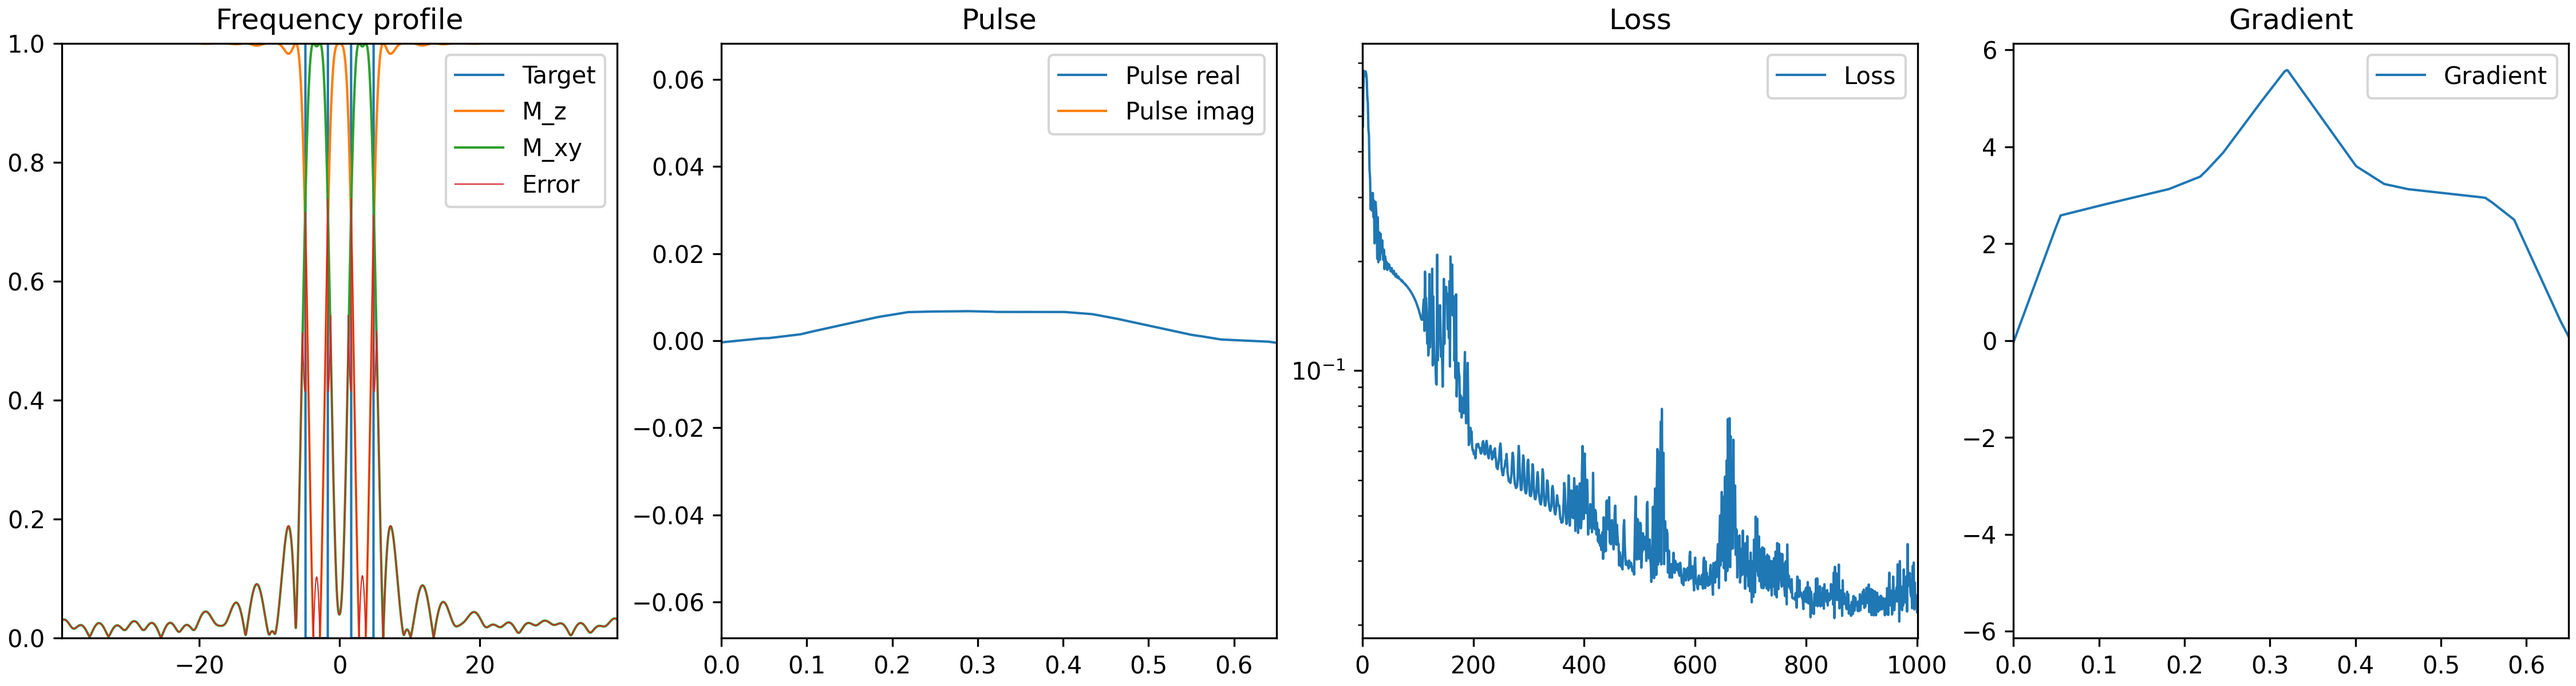
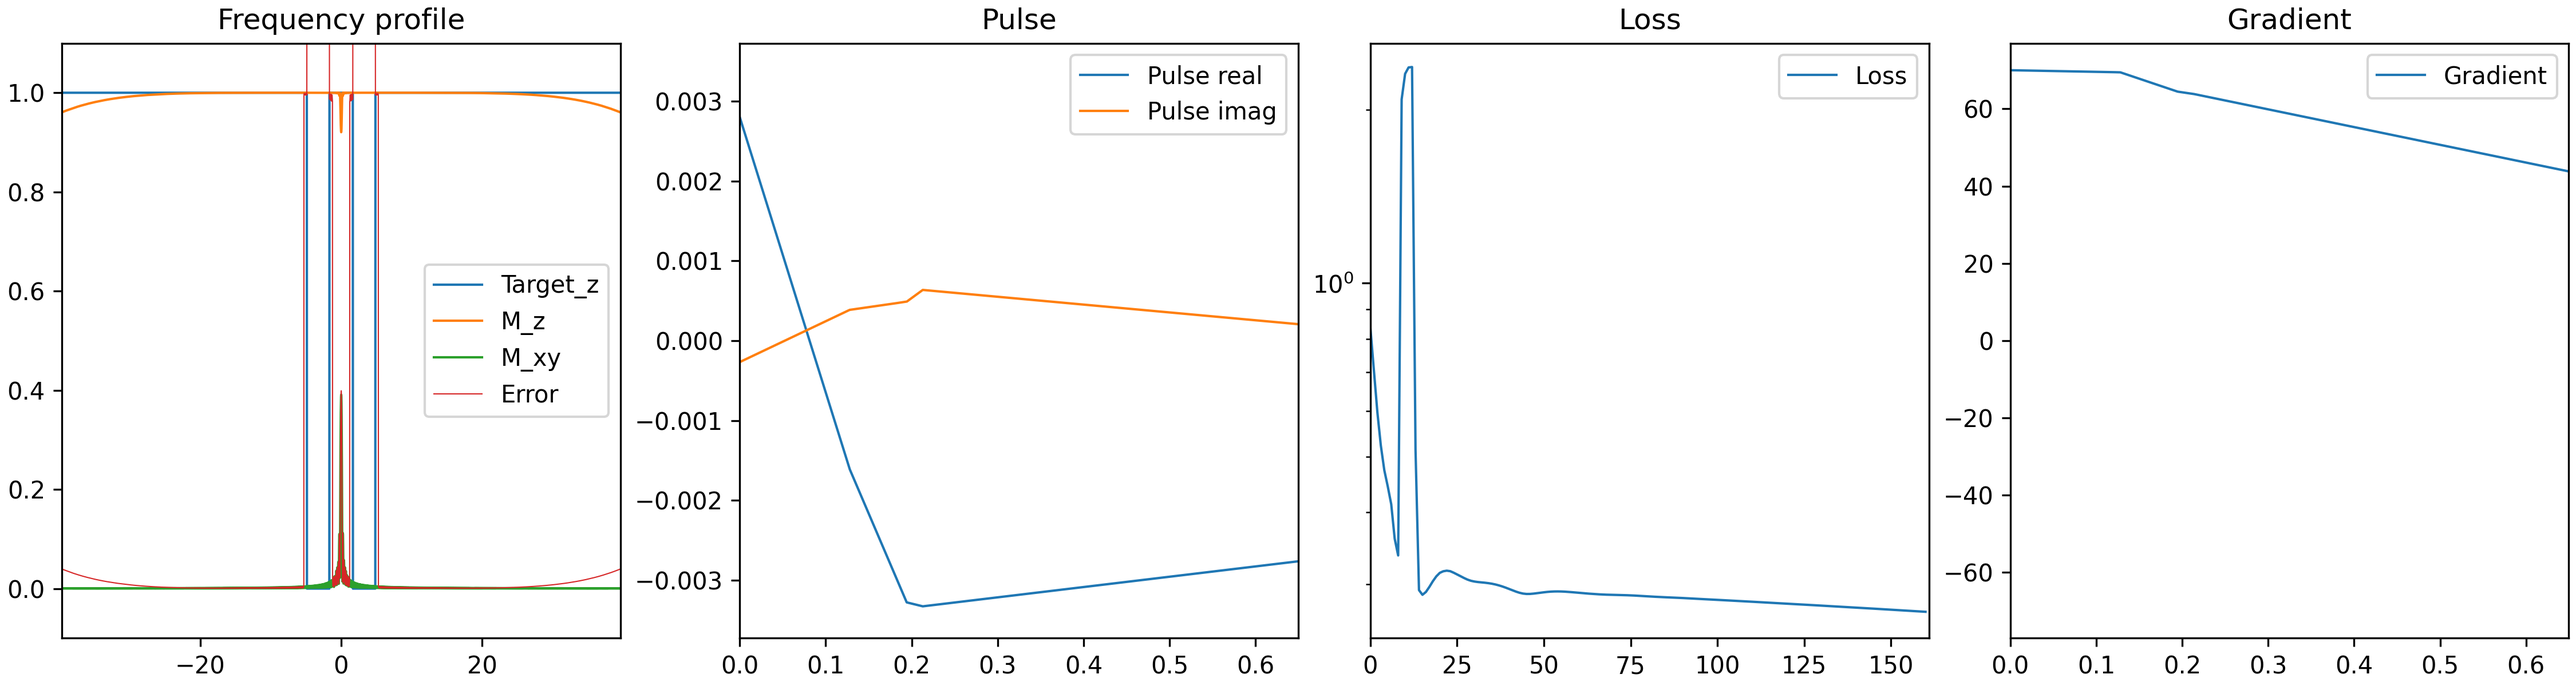
further optimized blochsim_CK

diff --git a/utils_train/utils.py b/utils_train/utils.py
@@ -5,6 +5,35 @@ import numpy as np
 from params import gradient_scale
 
 
+class TrainLogger:
+    def __init__(self, save_every=1):
+        self.log = {}
+        self.save_every = save_every
+        self.best_loss = np.inf
+
+    def log_epoch(
+        self, epoch, L2_loss, D_loss, losses, model, optimizer, pulse, gradient
+    ):
+        self.log["epoch"] = epoch
+        self.log["L2_loss"] = L2_loss.item()
+        self.log["D_loss"] = D_loss.item()
+        self.log["losses"] = losses
+        self.log["model"] = model
+        self.log["optimizer"] = optimizer
+        self.log["pulse"] = pulse
+        self.log["gradient"] = gradient
+        self.save(epoch, losses)
+
+    def save(self, epoch, losses, filename="train_log.pt"):
+        if not epoch % self.save_every == 0:
+            return
+        if not np.mean(losses[-4:]) < self.best_loss:
+            return
+        self.best_loss = np.mean(losses[-4:])
+        torch.save(self.log, filename)
+        print(f"Training log saved to {filename}")
+
+
 class InfoScreen:
     def __init__(self, output_every=1):
         self.t0 = time()
@@ -14,7 +43,7 @@ class InfoScreen:
 
     def init_plots(self):
         self.fig, self.ax = plt.subplots(1, 4, figsize=(15, 4), constrained_layout=True)
-        self.p1 = self.ax[0].plot([0], [1], linewidth=1, label="Target")[0]
+        self.p1 = self.ax[0].plot([0], [1], linewidth=1, label="Target_z")[0]
         self.p2 = self.ax[0].plot([0], [1], linewidth=1, label="M_z")[0]
         self.p3 = self.ax[0].plot([0], [1], linewidth=1, label="M_xy")[0]
         self.p4 = self.ax[0].plot([0], [1], linewidth=0.5, label="Error")[0]
@@ -31,11 +60,12 @@ class InfoScreen:
         self.ax[2].set_title("Loss")
         self.ax[3].set_title("Gradient")
 
-
-    def plot_info(self, epoch, losses, fAx, t_B1, target_z, target_xy, mz, mxy, pulse, gradient):
+    def plot_info(
+        self, epoch, losses, fAx, t_B1, target_z, target_xy, mz, mxy, pulse, gradient
+    ):
         """plots info curves during training"""
-        fmin = torch.min(fAx).item()
-        fmax = torch.max(fAx).item()
+        fmin = -10  # torch.min(fAx).item()
+        fmax = 10  # torch.max(fAx).item()
         if epoch % self.output_every == 0:
             t = t_B1.detach().cpu().numpy()
             mz_plot = mz.detach().cpu().numpy()
@@ -52,15 +82,22 @@ class InfoScreen:
             self.ax[1].set_xlim(t[0], t[-1])
             self.ax[3].set_xlim(t[0], t[-1])
             self.ax[2].set_xlim(0, epoch + 1)
-            self.ax[0].set_ylim(0,1)
+            self.ax[0].set_ylim(-0.1, 1.1)
             self.ax[1].set_ylim(
                 (
-                    -1.1*np.max(np.sqrt(pulse_real**2+pulse_imag**2)),
-                    1.1*np.max(np.sqrt(pulse_real**2+pulse_imag**2))
+                    -1.1 * np.max(np.sqrt(pulse_real**2 + pulse_imag**2)),
+                    1.1 * np.max(np.sqrt(pulse_real**2 + pulse_imag**2)),
                 )
             )
-            self.ax[2].set_ylim((0.9 * np.min(losses).item(), 1.1 * np.max(losses).item()))
-            self.ax[3].set_ylim((-1.1 * np.max(np.abs(gradient_plot)).item(), 1.1 * np.max(np.abs(gradient_plot)).item()))
+            self.ax[2].set_ylim(
+                (0.9 * np.min(losses).item(), 1.1 * np.max(losses).item())
+            )
+            self.ax[3].set_ylim(
+                (
+                    -1.1 * np.max(np.abs(gradient_plot)).item(),
+                    1.1 * np.max(np.abs(gradient_plot)).item(),
+                )
+            )
 
             self.p1.set_xdata(fAx)
             self.p2.set_xdata(fAx)
@@ -74,6 +111,7 @@ class InfoScreen:
             self.p5.set_ydata(gradient_plot)
 
             self.q.set_xdata(t)
+            self.qq.set_xdata(t)
             self.q.set_ydata(pulse_real)
             self.qq.set_ydata(pulse_imag)
 
@@ -85,7 +123,7 @@ class InfoScreen:
             plt.show(block=False)
             plt.pause(0.001)
 
-    def print_info(self, epoch, L2_loss,D_Loss):
+    def print_info(self, epoch, L2_loss, D_Loss):
         self.t1 = time() - self.t0
         self.t0 = time()
         print("Epoch: ", epoch)
@@ -97,17 +135,19 @@ class InfoScreen:
 
 def init_training(model_pulse, lr, device=torch.device("cpu")):
     model_pulse = model_pulse.to(device)
-    optimizer_pulse = torch.optim.Adam(model_pulse.parameters(), lr=lr)
+    optimizer_pulse = torch.optim.AdamW(model_pulse.parameters(), lr=lr)
     losses = []
-    best_loss = np.inf
-    saved = False
-    save_timer = 0
-    return model_pulse, optimizer_pulse, losses, best_loss, saved, save_timer
+    return model_pulse, optimizer_pulse, losses
 
 
 def loss_fn(z_profile, xy_profile, tgt_z, tgt_xy, pulse, gradient):
     xy_profile_abs = torch.abs(xy_profile)
-    L2_loss = torch.mean((z_profile - tgt_z) ** 2) + torch.mean((xy_profile_abs - tgt_xy) ** 2)
-    D_Loss = torch.sqrt(torch.abs(pulse[0])**2 + torch.abs(pulse[-1])**2) + torch.sqrt(gradient[0]**2 + gradient[-1]**2)/gradient_scale
+    L2_loss = torch.mean((z_profile - tgt_z) ** 2) + torch.mean(
+        (xy_profile_abs - tgt_xy) ** 2
+    )
+    D_Loss = (
+        torch.sqrt(torch.abs(pulse[0]) ** 2 + torch.abs(pulse[-1]) ** 2)
+        + torch.sqrt(gradient[0] ** 2 + gradient[-1] ** 2) / gradient_scale
+    )
     # H1_loss = torch.mean(findiff(xy_profile-1+target)**2) + torch.mean(findiff(z_profile-target)**2)
     return L2_loss, D_Loss  # + H1_loss

diff --git a/blochsim_CK.py b/blochsim_CK.py
@@ -374,7 +374,9 @@ def blochsim_CK(B1, G, pos, sens, B0, **kwargs):
     dt = kwargs.get("dt", 6.4e-6)
 
     # Handle M0 initialization
-    M0 = kwargs.get("M0", torch.tensor([0.0, 0.0, 1.0], dtype=torch.float32, requires_grad=False))
+    M0 = kwargs.get(
+        "M0", torch.tensor([0.0, 0.0, 1.0], dtype=torch.float32, requires_grad=False)
+    )
     if M0.ndim == 1:
         M0 = M0.to(B1.device)
 
@@ -383,8 +385,12 @@ def blochsim_CK(B1, G, pos, sens, B0, **kwargs):
     Nt = G.shape[0]  # Number of time points
 
     # Initialize state variables
-    statea = torch.ones(Ns, dtype=torch.complex64, device=B1.device, requires_grad=False)
-    stateb = torch.zeros(Ns, dtype=torch.complex64, device=B1.device, requires_grad=False)
+    statea = torch.ones(
+        Ns, dtype=torch.complex64, device=B1.device, requires_grad=False
+    )
+    stateb = torch.zeros(
+        Ns, dtype=torch.complex64, device=B1.device, requires_grad=False
+    )
 
     # Sum up RF over coils: bxy = sens * B1.T
     bxy = torch.matmul(sens, B1.T)
@@ -399,31 +405,16 @@ def blochsim_CK(B1, G, pos, sens, B0, **kwargs):
 
     # Compute these out of loop
     Phi = dt * gam * torch.sqrt(torch.abs(bxy) ** 2 + bz**2)
+    cp = torch.cos(Phi / 2)
+    alpha = cp - 1j * bz * gam * dt * 0.5 * torch.sinc(Phi / (2 * np.pi))
+    beta = -1j * bxy * gam * dt * 0.5 * torch.sinc(Phi / (2 * np.pi))
 
     # Loop over time
     for tt in range(Nt):
-        phi = -Phi[:, tt]  # sign reverse to define clockwise rotation
 
-        cp = torch.cos(phi / 2)
-
-        alpha = cp - 1j * bz[:, tt] * gam * dt * (0.5 - phi**2 / 48)
-        beta = -1j * bxy[:, tt] * gam * dt * (0.5 - phi**2 / 48)
-
-        # print('='*100)
-        # print(f'alpha: {alpha}')
-        # print(f'alphaNew: {alphaNew}')
-        # print(f'alpha diff: {torch.max(torch.abs(alpha-alphaNew))}')
-        # print('-'*100)
-        # print(f'beta: {beta}')
-        # print(f'betaNew: {betaNew}')
-        # print(f'beta diff: {torch.max(torch.abs(beta-betaNew))}')
-        # print('='*100)
-
-        tmpa = alpha * statea - torch.conj(beta) * stateb
-        tmpb = beta * statea + torch.conj(alpha) * stateb
-
+        tmpa = alpha[:, tt] * statea - torch.conj(beta[:, tt]) * stateb
+        stateb = beta[:, tt] * statea + torch.conj(alpha[:, tt]) * stateb
         statea = tmpa
-        stateb = tmpb
 
     # Calculate final magnetization state (M0 can be 3x1 or 3xNs)
     if M0.ndim == 1:
@@ -442,7 +433,11 @@ def blochsim_CK(B1, G, pos, sens, B0, **kwargs):
             mz0 = M0[:, 2]
 
     # Calculate final magnetization
-    mxy = 2 * mz0 * torch.conj(statea) * stateb + mxy0 * torch.conj(statea) ** 2 - torch.conj(mxy0) * stateb**2
+    mxy = (
+        2 * mz0 * torch.conj(statea) * stateb
+        + mxy0 * torch.conj(statea) ** 2
+        - torch.conj(mxy0) * stateb**2
+    )
     mz = mz0 * (statea * torch.conj(statea) - stateb * torch.conj(stateb))
     mz = mz + 2 * torch.real(mxy0 * torch.conj(statea) * (-torch.conj(stateb)))
 

diff --git a/backward.py b/backward.py
@@ -9,7 +9,7 @@ device = (
     if torch.backends.mps.is_available()
     else torch.device("cuda") if torch.cuda.is_available() else torch.device("cpu")
 )
-print("Device:",device)
+print("Device:", device)
 
 inputs, dt, Nz, sens, B0, tAx, fAx, t_B1 = get_fixed_inputs(module=torch, device=device)
 
@@ -27,10 +27,13 @@ target_xy = target_xy.to(device)
 targets_z = target_z.detach().requires_grad_(False)
 target_xy = target_xy.detach().requires_grad_(False)
 
-model = MLPWithBoundary(output_dim=3, hidden_dim=64, num_layers=3, left_boundary=tMin, right_boundary=tMax).float()
-model, optimizer, losses, best_loss, saved, save_timer = init_training(model, lr, device=device)
+model = MLPWithBoundary(
+    output_dim=3, hidden_dim=16, num_layers=2, left_boundary=tMin, right_boundary=tMax
+).float()
+model, optimizer, losses = init_training(model, lr, device=device)
 
 infoscreen = InfoScreen(output_every=10)
+trainLogger = TrainLogger(save_every=10)
 model.train()
 for epoch in range(epochs + 1):
     # Compute frequency profile:
@@ -47,5 +50,10 @@ for epoch in range(epochs + 1):
     loss.backward()
     optimizer.step()
 
-    infoscreen.plot_info(epoch, losses, fAx, t_B1, target_z, target_xy, mz, mxy, pulse, gradient)
+    infoscreen.plot_info(
+        epoch, losses, fAx, t_B1, target_z, target_xy, mz, mxy, pulse, gradient
+    )
     infoscreen.print_info(epoch, L2Loss, DLoss)
+    trainLogger.log_epoch(
+        epoch, L2Loss, DLoss, losses, model, optimizer, pulse, gradient
+    )

diff --git a/forward.py b/forward.py
@@ -8,9 +8,6 @@ inputs, dt, Nz, sens, B0, tAx, fAx, t_B1 = get_fixed_inputs(module=torch)
 
 B1 = torch.from_numpy(inputs["rfmb"]).to(torch.complex64)
 G = torch.from_numpy(inputs["Gs"]).to(torch.float32)
-print(B1.shape)
-print(G.shape)
-
 
 mxy, mz = blochsim_CK(B1=B1, G=G, sens=sens, B0=B0, **inputs)
 
@@ -22,8 +19,6 @@ bw = (1.0 / max(tAx)) * len(tAx)
 fAx = np.linspace(-bw, bw, len(tAx)) * 1e-6 * 2 * np.pi
 t_B1 = np.arange(0, len(B1)) * dt * 1e3
 
-
-print(mxy.shape)
 
 fig, ax = plt.subplots(2, 2, figsize=(12, 6))
 ax[0, 1].plot(t_B1, inputs["Gs"], linewidth=0.8)
